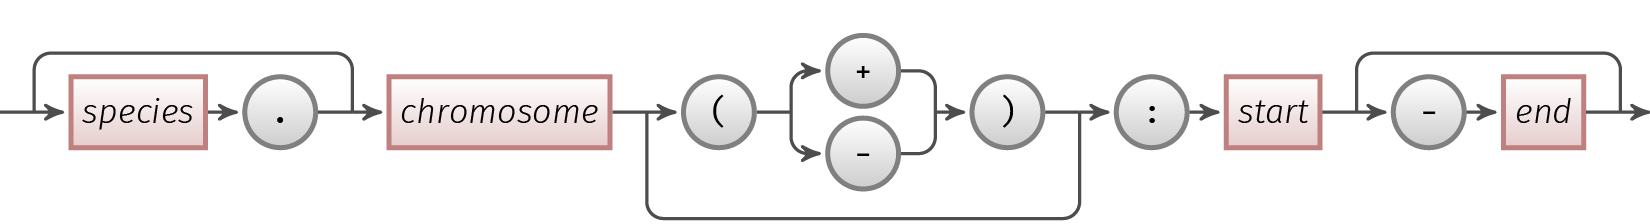
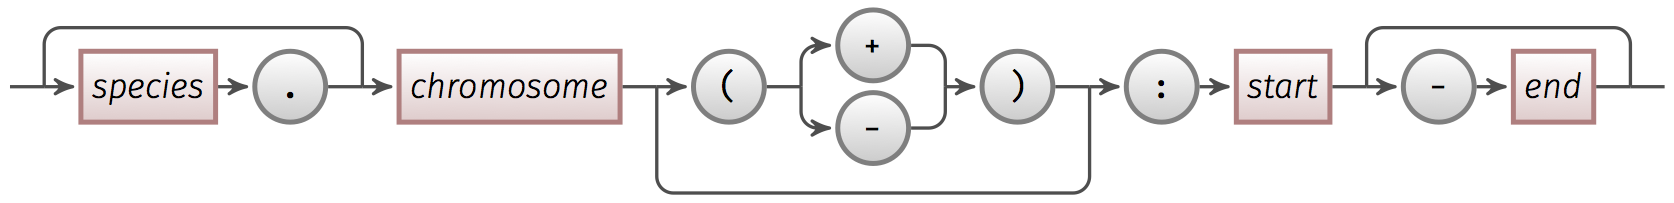
Remove last arrow

Changed region(s): [[0.0, 0.0296, 1.0, 1.0], [0.0309, 0.1182, 0.2164, 0.1773], [0.0, 0.1478, 0.0309, 0.1773]]

diff --git a/doc/positions.tex b/doc/positions.tex
@@ -57,7 +57,7 @@
     p6 ->
     "-" [terminal] ->
     end [nonterminal] --
-    p7 ->
+    p7 --
     / [coordinate];
 
     p1 -- [skip loop=5mm] p2;
